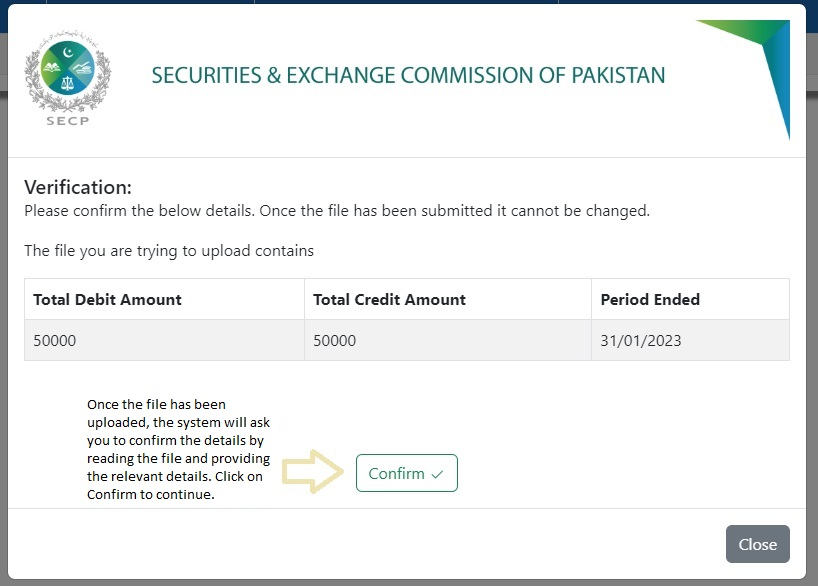
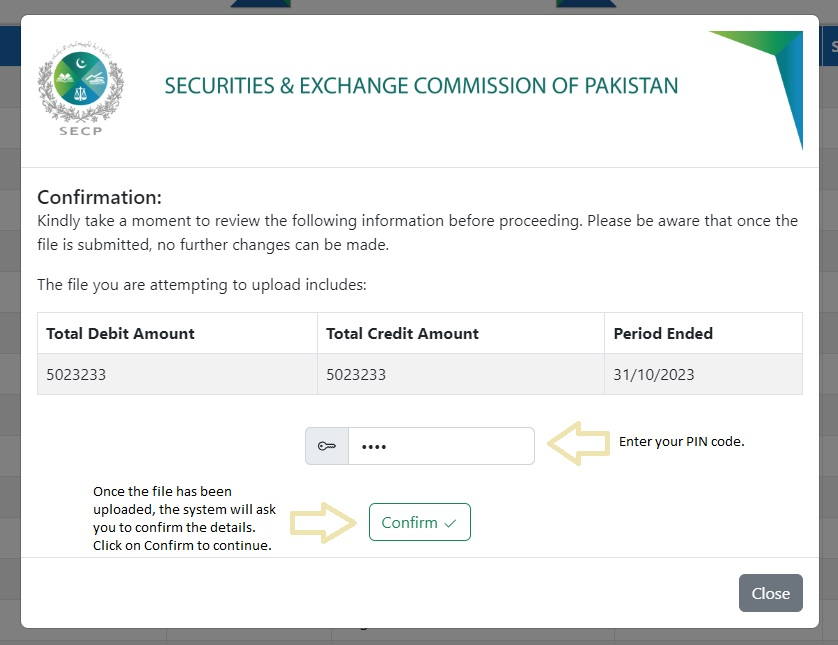
resolved inactive companies

diff --git a/server/routes/routes.js b/server/routes/routes.js
@@ -649,16 +649,59 @@ router.post(API_ENDPOINTS.AUTH, (req, res) => {
       (err, results) => {
         if (!err) {
           if (results[0]) {
-            res.send({
-              data: {
-                token: generateToken(userCuin),
-                companyName: results[0].COMPANY_NAME,
-                companyId: results[0].COMPANY_ID,
+            const { companyName, companyId } = results[0];
+            oracleDb.getConnection(
+              {
+                user: process.env.ORACLEDB_USER,
+                password: process.env.ORACLEDB_PASSWORD,
+                connectString: process.env.ORACLEDB_CONNECT_STRING,
+                autoCommit: true,
               },
-              statusCode: 200,
-              message: "Authenticated",
-              error: false,
-            });
+              (err, conn) => {
+                if (!err) {
+                  console.log("Connected to the database successfully");
+                } else {
+                  console.log(
+                    "Error occurred while trying to connect to the database: " +
+                      err.message
+                  );
+                }
+
+                conn.execute(
+                  DB_QUERIES.AUTH_BROKER,
+                  [userCuin],
+                  async (err, results) => {
+                    if (!err) {
+                      if (results.rows.length > 0) {
+                        await logsGeneration(req.ip, userCuin);
+                        res.send({
+                          data: {
+                            token: generateToken(userCuin),
+                            companyName,
+                            companyId,
+                          },
+                          statusCode: 200,
+                          message: "Authenticated",
+                          error: false,
+                        });
+                      } else {
+                        res.send({
+                          statusCode: 403,
+                          message:
+                            "Access forbidden. The company is not registered as a brokerage house.",
+                          error: true,
+                        });
+                      }
+                    } else {
+                      console.log(
+                        "Error occurred while trying to login ",
+                        err.message
+                      );
+                    }
+                  }
+                );
+              }
+            );
           } else {
             res.send({
               statusCode: 402,

diff --git a/server/constants/sql-scripts.constant.js b/server/constants/sql-scripts.constant.js
@@ -8,14 +8,15 @@ const DB_QUERIES = {
   AUTH_USER: `SELECT USER_COMPANY.COMPANY_ID, USER_COMPANY.COMPANY_NAME 
   FROM ESUSER.USER_COMPANY 
   INNER JOIN ESUSER.USER_PROFILE ON USER_COMPANY.USER_ID_FK = USER_PROFILE.USER_ID
-  WHERE USER_COMPANY.USER_ID_FK = ? AND 
-  USER_COMPANY.COMPANY_ID = (
-    SELECT CMPNYID
-    FROM ICM_COMPANY
-    WHERE ICM_COMPANY.CMPNYINCNO = ?
-  ) AND 
-  DECRYPT_CHAR(USER_PROFILE.PASSWORD, ?) = ?`,
-  AUTH_PIN_CODE: `SELECT * FROM USER_PIN_HISTORY WHERE USER_ID_FK = ? AND USER_PIN = ?`,
+  INNER JOIN ICM_COMPANY ON USER_COMPANY.COMPANY_ID = ICM_COMPANY.CMPNYID
+  WHERE ESUSER.USER_PROFILE.USER_STATUS = 'ACTIVE' AND ESUSER.USER_COMPANY.LOGIN_ALLOWED = 'YES' AND USER_COMPANY.USER_ID_FK = ?
+  AND ICM_COMPANY.STTS !='INACTIVE'
+  AND ICM_COMPANY.CMPNYINCNO = ?
+  AND DECRYPT_CHAR(USER_PROFILE.PASSWORD, ?) = ?
+  FOR FETCH ONLY WITH UR`,
+  AUTH_BROKER: `SELECT * FROM CRS.BROKERS_LIST
+  WHERE BROKER_CUIN = :userCuin`,
+  AUTH_PIN_CODE: `SELECT * FROM USER_PIN_HISTORY WHERE USER_ID_FK = ? AND USER_PIN = ? FOR FETCH ONLY WITH UR`,
   GET_PERIOD_ENDED_DATE: `SELECT TO_CHAR(MAX(ADD_MONTHS(TO_DATE((PERIOD_ENDED) ,'DD/MM/YYYY'), 1)),  'DD/MM/YYYY') 
   FROM CRS.BLASRS_DATA_SUBMITTER WHERE COMPANY_INCNO = :companyIncno`,
   INSERT_FILE: `INSERT INTO CRS.BLASRS_DATA_SUBMITTER(ROW_ID, USER_ID_FK, USER_PIN, RECORD_TYPE, COMPANY_ID, COMPANY_NAME, 

diff --git a/src/app/components/upload-sheet-modal/upload-sheet-modal.component.html b/src/app/components/upload-sheet-modal/upload-sheet-modal.component.html
@@ -128,8 +128,9 @@
       <div class="modal-body" *ngIf="isValidResponse">
         <h5 class="card-title">Confirmation:</h5>
         <p class="card-text">
-          Before proceeding, please review the following information. Once you
-          submit the file, you won't be able to make any changes.
+          Kindly take a moment to review the following information before
+          proceeding. Please be aware that once the file is submitted, no
+          further changes can be made.
         </p>
         <p>The file you are attempting to upload includes:</p>
         <div class="table-responsive">
